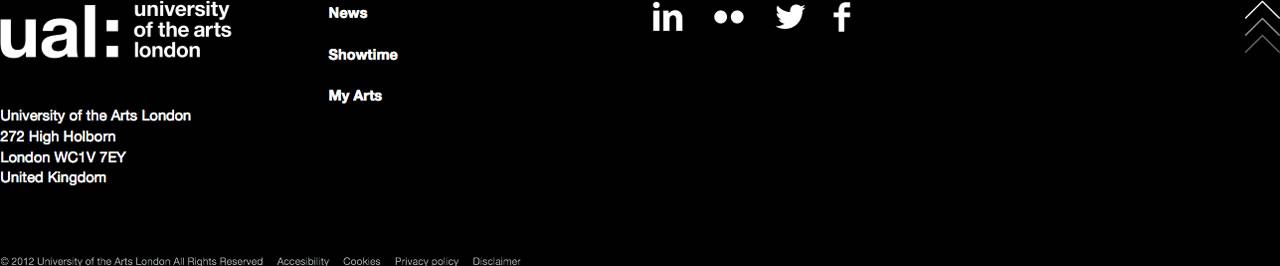
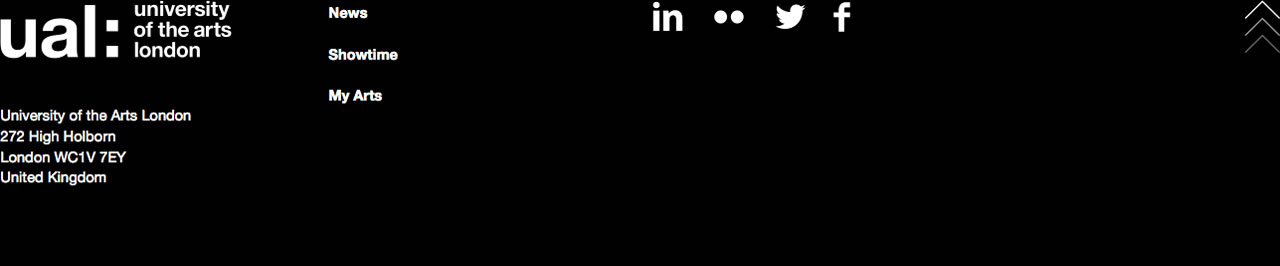
updated image

Changed region(s): [[0.0, 0.9624, 0.4062, 1.0]]

diff --git a/_site/index.html b/_site/index.html
@@ -758,17 +758,23 @@
 </footer>
 
 
+  <div class="row">
+    <div class="large-12 columns">
+      <img src="http://artslondon.github.com/beta/assets/img/placeholders/ual_global_footer.jpg" alt="">
+    </div>
+  </div> 
 
 
-        <footer>
-            <div class="row">
+
+<!--         <footer>
+ -->            <div class="row">
 	<div class="large-12 columns">
 <!-- 		<p>Footer</p>
  -->	</div>
 </div>
 
-        </footer>
-
+<!--         </footer>
+ -->
         <!-- Included JS Files (Uncompressed) -->
         <script src="http://artslondon.github.com/beta/assets/js/vendor/zepto.js"></script>
         <script src="http://artslondon.github.com/beta/assets/js/foundation/foundation.js"></script>

diff --git a/_site/colleges/camberwell/index.html b/_site/colleges/camberwell/index.html
@@ -430,15 +430,15 @@
         <!-- Add your site or application content here -->
         
 
-        <footer>
-            <div class="row">
+<!--         <footer>
+ -->            <div class="row">
 	<div class="large-12 columns">
 <!-- 		<p>Footer</p>
  -->	</div>
 </div>
 
-        </footer>
-
+<!--         </footer>
+ -->
         <!-- Included JS Files (Uncompressed) -->
         <script src="http://artslondon.github.com/beta/assets/js/vendor/zepto.js"></script>
         <script src="http://artslondon.github.com/beta/assets/js/foundation/foundation.js"></script>

diff --git a/_site/research/index.html b/_site/research/index.html
@@ -430,15 +430,15 @@
         <!-- Add your site or application content here -->
         
 
-        <footer>
-            <div class="row">
+<!--         <footer>
+ -->            <div class="row">
 	<div class="large-12 columns">
 <!-- 		<p>Footer</p>
  -->	</div>
 </div>
 
-        </footer>
-
+<!--         </footer>
+ -->
         <!-- Included JS Files (Uncompressed) -->
         <script src="http://artslondon.github.com/beta/assets/js/vendor/zepto.js"></script>
         <script src="http://artslondon.github.com/beta/assets/js/foundation/foundation.js"></script>

diff --git a/_site/studying-at-ual/index.html b/_site/studying-at-ual/index.html
@@ -430,15 +430,15 @@
         <!-- Add your site or application content here -->
         
 
-        <footer>
-            <div class="row">
+<!--         <footer>
+ -->            <div class="row">
 	<div class="large-12 columns">
 <!-- 		<p>Footer</p>
  -->	</div>
 </div>
 
-        </footer>
-
+<!--         </footer>
+ -->
         <!-- Included JS Files (Uncompressed) -->
         <script src="http://artslondon.github.com/beta/assets/js/vendor/zepto.js"></script>
         <script src="http://artslondon.github.com/beta/assets/js/foundation/foundation.js"></script>

diff --git a/_site/colleges/lcf/index.html b/_site/colleges/lcf/index.html
@@ -563,15 +563,15 @@
 >>>>>>> f7fc1e94ce798befbf032b3b48bee4813fae0a8b
 
 
-        <footer>
-            <div class="row">
+<!--         <footer>
+ -->            <div class="row">
 	<div class="large-12 columns">
 <!-- 		<p>Footer</p>
  -->	</div>
 </div>
 
-        </footer>
-
+<!--         </footer>
+ -->
         <!-- Included JS Files (Uncompressed) -->
         <script src="http://artslondon.github.com/beta/assets/js/vendor/zepto.js"></script>
         <script src="http://artslondon.github.com/beta/assets/js/foundation/foundation.js"></script>

diff --git a/_site/colleges/wimbledon/index.html b/_site/colleges/wimbledon/index.html
@@ -622,15 +622,15 @@
 
 </div> <!-- END ROW -->
 
-        <footer>
-            <div class="row">
+<!--         <footer>
+ -->            <div class="row">
 	<div class="large-12 columns">
 <!-- 		<p>Footer</p>
  -->	</div>
 </div>
 
-        </footer>
-
+<!--         </footer>
+ -->
         <!-- Included JS Files (Uncompressed) -->
         <script src="http://artslondon.github.com/beta/assets/js/vendor/zepto.js"></script>
         <script src="http://artslondon.github.com/beta/assets/js/foundation/foundation.js"></script>

diff --git a/_site/course-finder/index.html b/_site/course-finder/index.html
@@ -586,15 +586,15 @@
     </div>
   </div>
 
-        <footer>
-            <div class="row">
+<!--         <footer>
+ -->            <div class="row">
 	<div class="large-12 columns">
 <!-- 		<p>Footer</p>
  -->	</div>
 </div>
 
-        </footer>
-
+<!--         </footer>
+ -->
         <!-- Included JS Files (Uncompressed) -->
         <script src="http://artslondon.github.com/beta/assets/js/vendor/zepto.js"></script>
         <script src="http://artslondon.github.com/beta/assets/js/foundation/foundation.js"></script>

diff --git a/_site/about-ual/contact-ual/index.html b/_site/about-ual/contact-ual/index.html
@@ -437,15 +437,15 @@
     </div>
 </div>
 
-        <footer>
-            <div class="row">
+<!--         <footer>
+ -->            <div class="row">
 	<div class="large-12 columns">
 <!-- 		<p>Footer</p>
  -->	</div>
 </div>
 
-        </footer>
-
+<!--         </footer>
+ -->
         <!-- Included JS Files (Uncompressed) -->
         <script src="http://artslondon.github.com/beta/assets/js/vendor/zepto.js"></script>
         <script src="http://artslondon.github.com/beta/assets/js/foundation/foundation.js"></script>

diff --git a/_site/alumni-and-friends/index.html b/_site/alumni-and-friends/index.html
@@ -437,15 +437,15 @@
     </div>
 </div>
 
-        <footer>
-            <div class="row">
+<!--         <footer>
+ -->            <div class="row">
 	<div class="large-12 columns">
 <!-- 		<p>Footer</p>
  -->	</div>
 </div>
 
-        </footer>
-
+<!--         </footer>
+ -->
         <!-- Included JS Files (Uncompressed) -->
         <script src="http://artslondon.github.com/beta/assets/js/vendor/zepto.js"></script>
         <script src="http://artslondon.github.com/beta/assets/js/foundation/foundation.js"></script>

diff --git a/_site/careers-and-jobs/index.html b/_site/careers-and-jobs/index.html
@@ -437,15 +437,15 @@
     </div>
 </div>
 
-        <footer>
-            <div class="row">
+<!--         <footer>
+ -->            <div class="row">
 	<div class="large-12 columns">
 <!-- 		<p>Footer</p>
  -->	</div>
 </div>
 
-        </footer>
-
+<!--         </footer>
+ -->
         <!-- Included JS Files (Uncompressed) -->
         <script src="http://artslondon.github.com/beta/assets/js/vendor/zepto.js"></script>
         <script src="http://artslondon.github.com/beta/assets/js/foundation/foundation.js"></script>

diff --git a/_site/colleges/lcc/index.html b/_site/colleges/lcc/index.html
@@ -437,15 +437,15 @@
     </div>
 </div>
 
-        <footer>
-            <div class="row">
+<!--         <footer>
+ -->            <div class="row">
 	<div class="large-12 columns">
 <!-- 		<p>Footer</p>
  -->	</div>
 </div>
 
-        </footer>
-
+<!--         </footer>
+ -->
         <!-- Included JS Files (Uncompressed) -->
         <script src="http://artslondon.github.com/beta/assets/js/vendor/zepto.js"></script>
         <script src="http://artslondon.github.com/beta/assets/js/foundation/foundation.js"></script>

diff --git a/_site/about-ual/index.html b/_site/about-ual/index.html
@@ -485,15 +485,15 @@
 	</div>
 </div>
 
-        <footer>
-            <div class="row">
+<!--         <footer>
+ -->            <div class="row">
 	<div class="large-12 columns">
 <!-- 		<p>Footer</p>
  -->	</div>
 </div>
 
-        </footer>
-
+<!--         </footer>
+ -->
         <!-- Included JS Files (Uncompressed) -->
         <script src="http://artslondon.github.com/beta/assets/js/vendor/zepto.js"></script>
         <script src="http://artslondon.github.com/beta/assets/js/foundation/foundation.js"></script>
